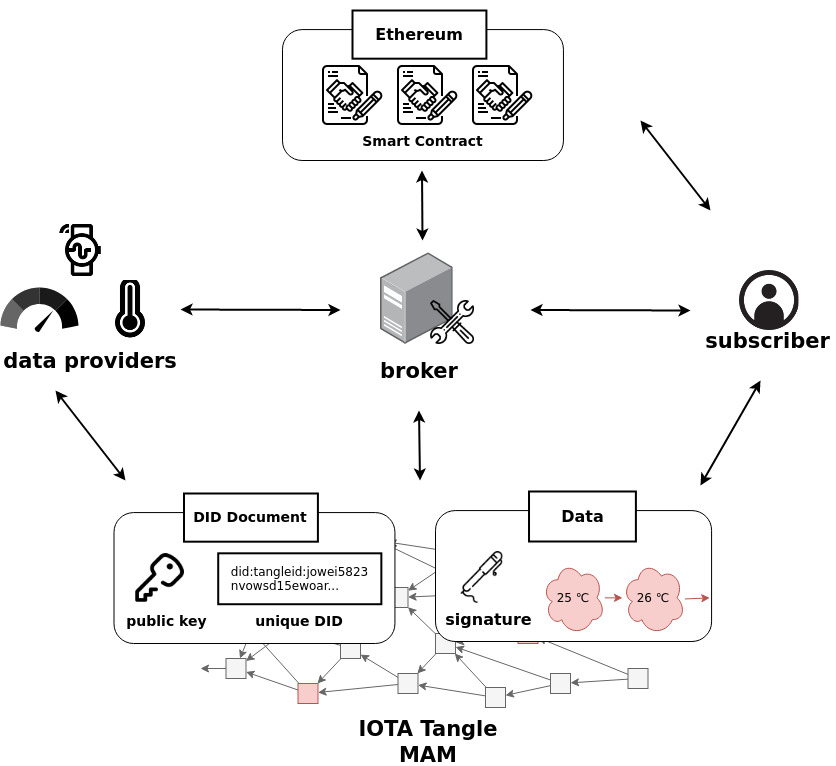
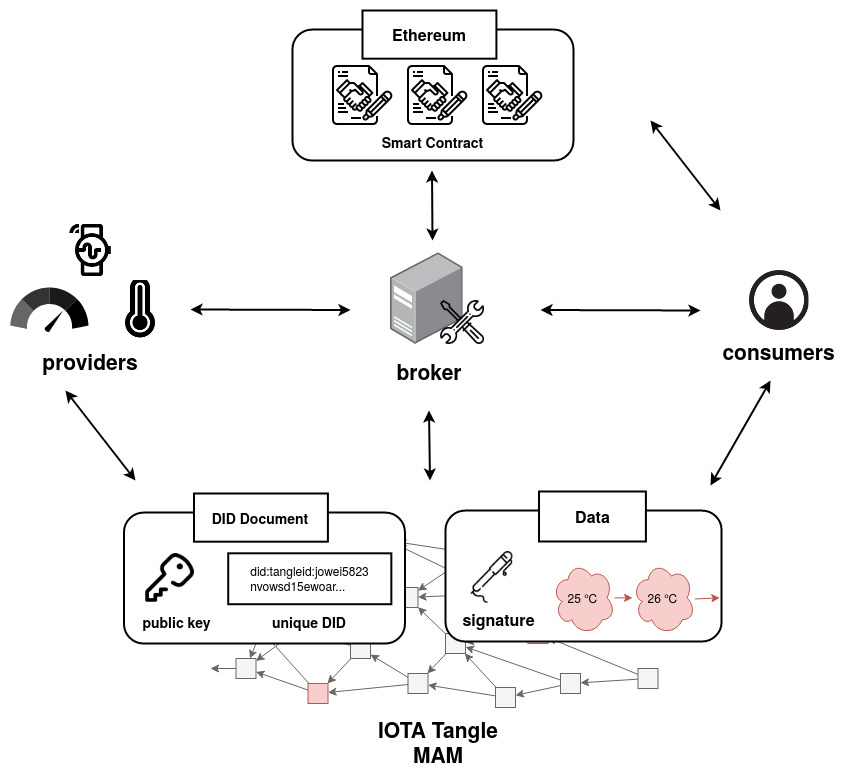
Rename subscribers to consumers

diff --git a/paper.tex b/paper.tex
@@ -67,7 +67,7 @@ In the previous paper, we investigated the use of decentralized publish/subscrib
 \begin{figure}[!t]
     \centering
     \includegraphics[width=3.in]{system_design}
-    \caption{The system design of a decentralized data marketplace which consists of data providers, subscribers and brokers.}
+    \caption{The system design of a decentralized data marketplace which consists of data providers, consumers and brokers.}
     \label{fig:system_design}
 \end{figure}
 
